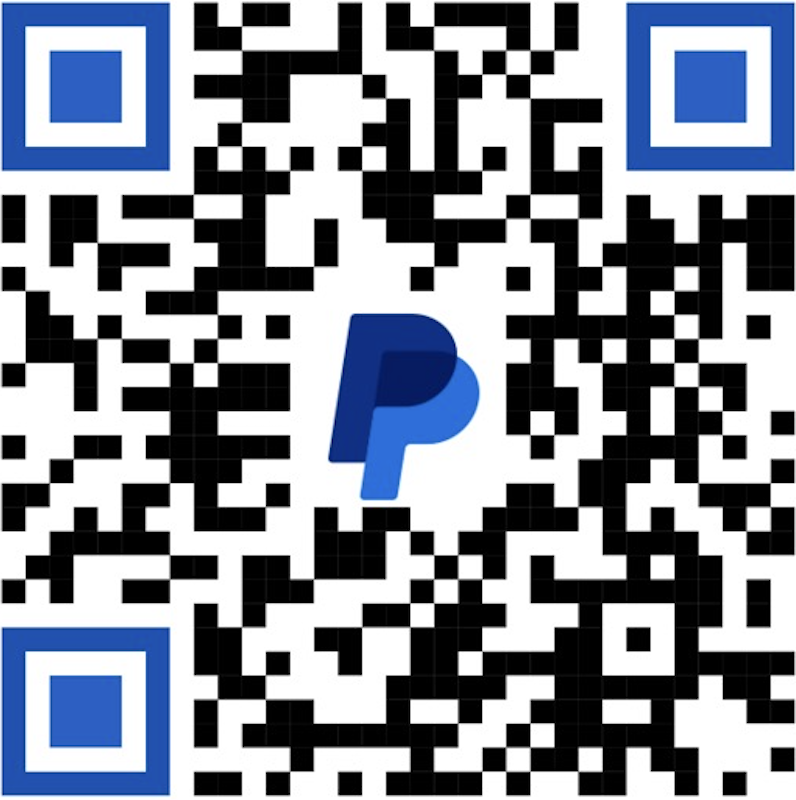
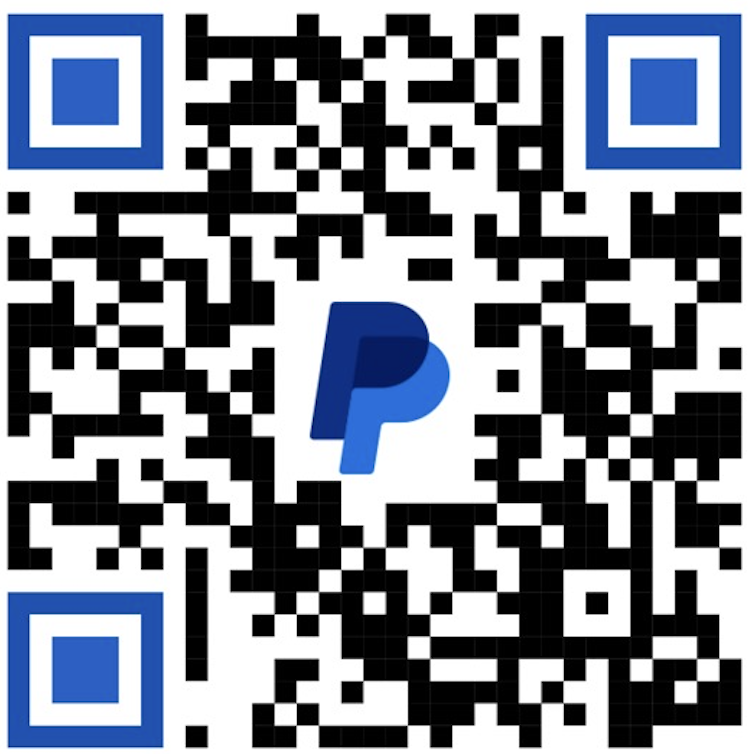
edit(paypal): update QR code and relative paypal link.

diff --git a/landing.html b/landing.html
@@ -27,7 +27,7 @@ data:
         - title: 'PayPal <i class="fas fa-arrow-down"></i>'
           image:
             src: /assets/images/paypal-qr-code.png
-            url: https://www.paypal.me/ugoforlimpopoli
+            url: https://www.paypal.me/ugoaulastudio
             style: "max-width: 200px; max-height: 200px"
             is_row: true
 
